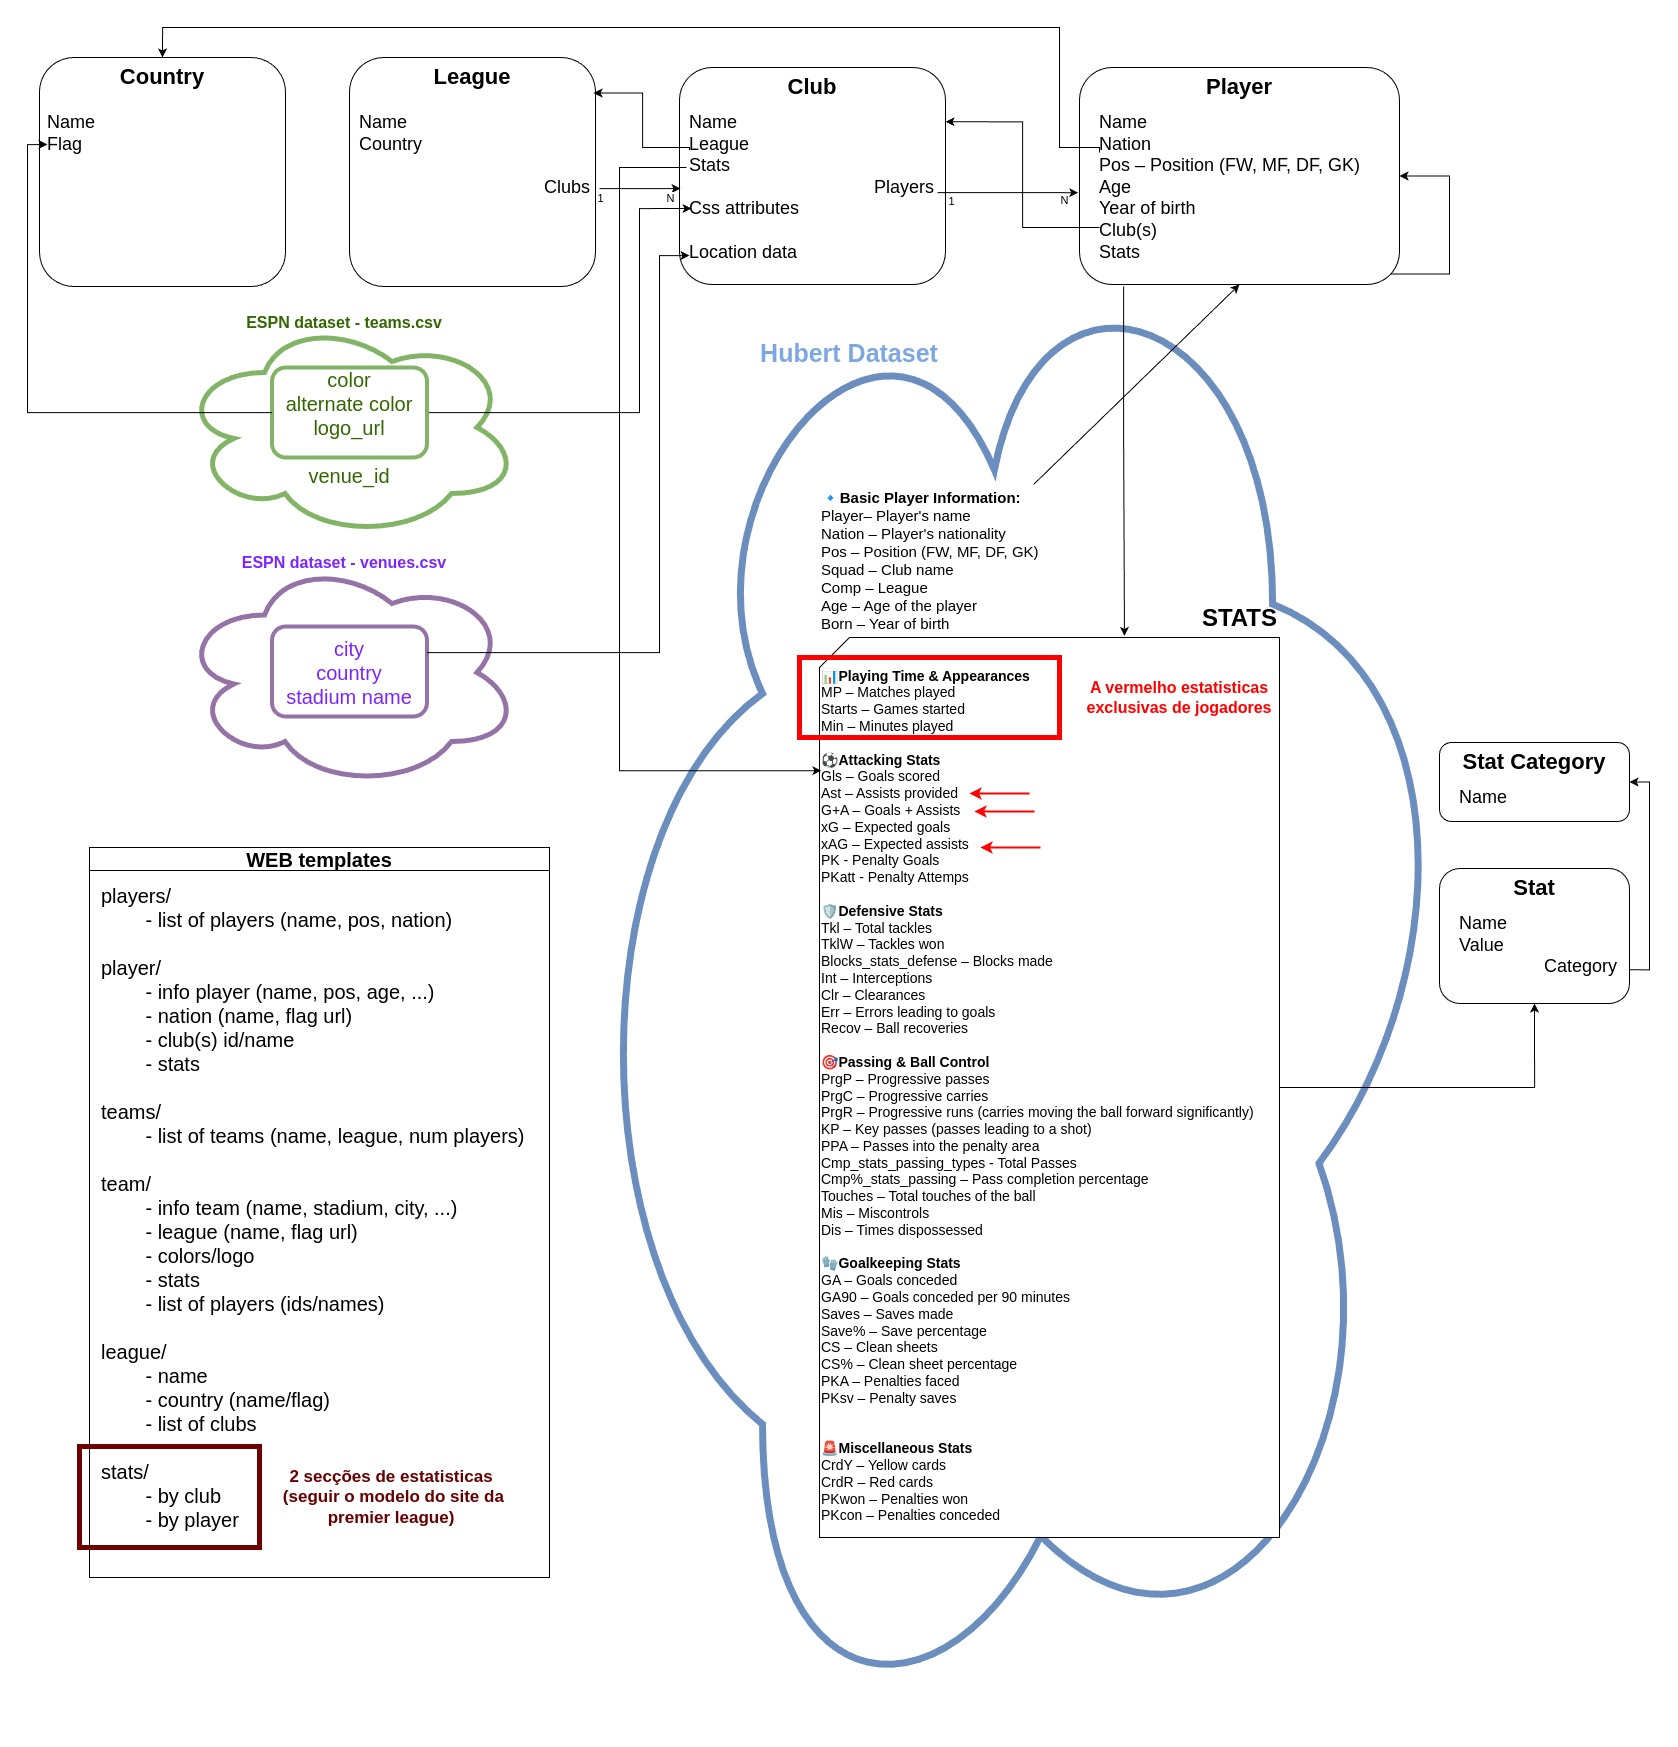
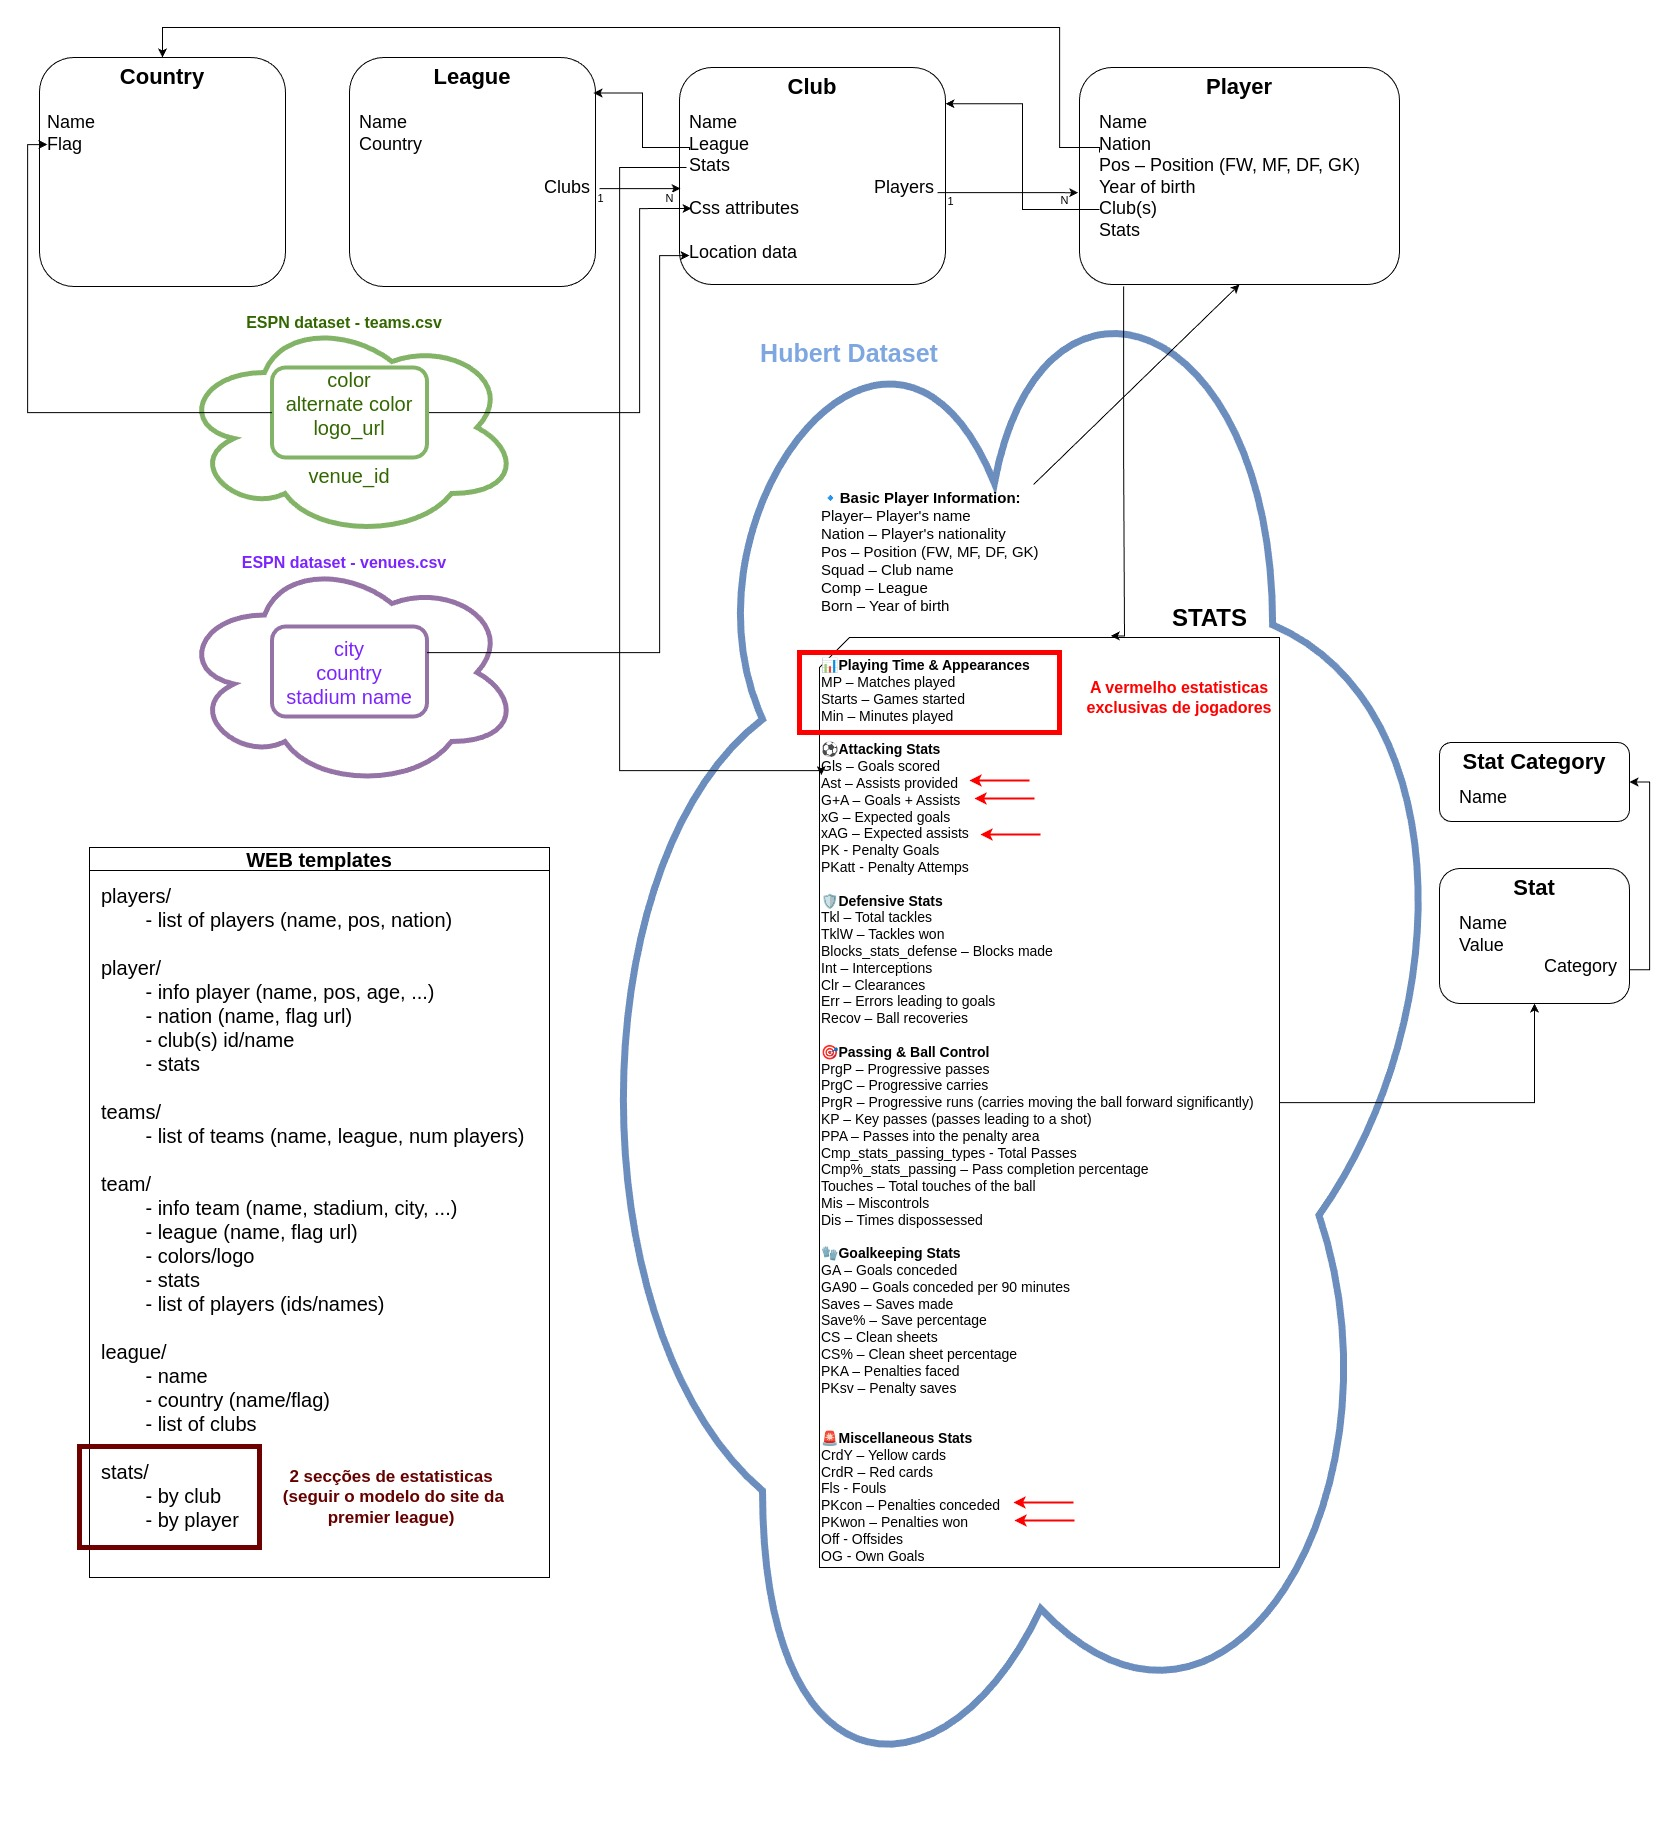
create stats for players

diff --git a/data/data_converter_csv_to_nt.py b/data/data_converter_csv_to_nt.py
@@ -22,8 +22,82 @@ ns_club = Namespace(BASE_URL + 'club/')
 ns_league = Namespace(BASE_URL + 'league/')
 ns_country = Namespace(BASE_URL + 'country/')
 ns_rel = Namespace(BASE_URL + 'rel/')
+ns_stat = Namespace(BASE_URL + 'stat/')
+ns_stat_type = Namespace(BASE_URL + 'stat_type/')
 
 g = Graph()
+
+# Relações Estatisticas Tipo
+g.add((ns_stat_type.playing_time, ns_rel.name, Literal('Playing Time')))
+g.add((ns_stat_type.attacking, ns_rel.name, Literal('Attacking')))
+g.add((ns_stat_type.defending, ns_rel.name, Literal('Defending')))
+g.add((ns_stat_type.passing, ns_rel.name, Literal('Passing & Creativity')))
+g.add((ns_stat_type.goalkeeping, ns_rel.name, Literal('Goalkeeping')))
+g.add((ns_stat_type.miscellaneous, ns_rel.name, Literal('Miscellaneous')))
+
+# Relações Estatisticas
+def convert_stat_name_to_id(stat_name):
+    return stat_name.lower().replace('%', '_pct').replace('+', '_plus_')
+
+PLAYER = "player"
+GK = "goalkeeper"
+TEAM = "team"
+
+stat_mappings = {
+    "MP": {"description": "Matches Played", "type": ns_stat_type.playing_time, "entities": [PLAYER, GK]},
+    "Starts": {"description": "Games Started", "type": ns_stat_type.playing_time, "entities": [PLAYER, GK]},
+    "Min": {"description": "Minutes Played", "type": ns_stat_type.playing_time, "entities": [PLAYER, GK]},
+
+    "Gls": {"description": "Goals", "type": ns_stat_type.attacking, "entities": [PLAYER, GK, TEAM]},
+    "Ast": {"description": "Assists", "type": ns_stat_type.attacking, "entities": [PLAYER, GK]},
+    "G+A": {"description": "Goals + Assists", "type": ns_stat_type.attacking, "entities": [PLAYER, GK]},
+    "xG": {"description": "Expected Goals", "type": ns_stat_type.attacking, "entities": [PLAYER, GK, TEAM]},
+    "xAG": {"description": "Expected Assists", "type": ns_stat_type.attacking, "entities": [PLAYER, GK]},
+    "PK": {"description": "Penalties Scored", "type": ns_stat_type.attacking, "entities": [PLAYER, GK, TEAM]},
+    "PKatt": {"description": "Penalties Attempted", "type": ns_stat_type.attacking, "entities": [PLAYER, GK, TEAM]},
+
+    "Tkl": {"description": "Tackles", "type": ns_stat_type.defending, "entities": [PLAYER, TEAM]},
+    "TklW": {"description": "Tackles Won", "type": ns_stat_type.defending, "entities": [PLAYER, TEAM]},
+    "Blocks_stats_defense": {"description": "Blocks", "type": ns_stat_type.defending, "entities": [PLAYER, TEAM]},
+    "Int": {"description": "Interceptions", "type": ns_stat_type.defending, "entities": [PLAYER, TEAM]},
+    "Clr": {"description": "Clearances", "type": ns_stat_type.defending, "entities": [PLAYER, TEAM]},
+    "Err": {"description": "Errors Leading to Goal", "type": ns_stat_type.defending, "entities": [PLAYER, TEAM]},
+    "Recov": {"description": "Ball Recoveries", "type": ns_stat_type.defending, "entities": [PLAYER, TEAM]},
+
+    "PrgP": {"description": "Progressive Passes", "type": ns_stat_type.passing, "entities": [PLAYER, TEAM]},
+    "PrgC": {"description": "Progressive Carries", "type": ns_stat_type.passing, "entities": [PLAYER, TEAM]},
+    "PrgR": {"description": "Progressive Runs", "type": ns_stat_type.passing, "entities": [PLAYER, TEAM]},
+    "KP": {"description": "Key Passes", "type": ns_stat_type.passing, "entities": [PLAYER, TEAM]},
+    "PPA": {"description": "Passes into Penalty Area", "type": ns_stat_type.passing, "entities": [PLAYER, TEAM]},
+    "Live": {"description": "Total Passes", "type": ns_stat_type.passing, "entities": [PLAYER, TEAM]},
+    "Cmp_stats_passing_types": {"description": "Passes Completed", "type": ns_stat_type.passing, "entities": [PLAYER, TEAM]},
+    "Touches": {"description": "Touches", "type": ns_stat_type.passing, "entities": [PLAYER, TEAM]},
+    "Mis": {"description": "Miscontrols", "type": ns_stat_type.passing, "entities": [PLAYER, TEAM]},
+    "Dis": {"description": "Times Dispossessed", "type": ns_stat_type.passing, "entities": [PLAYER, TEAM]},
+
+    "GA": {"description": "Goals Conceded", "type": ns_stat_type.goalkeeping, "entities": [GK, TEAM]},
+    "GA90": {"description": "Goals Conceded per 90 minutes", "type": ns_stat_type.goalkeeping, "entities": [GK, TEAM]},
+    "Saves": {"description": "Saves", "type": ns_stat_type.goalkeeping, "entities": [GK, TEAM]},
+    "Save%": {"description": "Save %", "type": ns_stat_type.goalkeeping, "entities": [GK, TEAM]},
+    "CS": {"description": "Clean Sheets", "type": ns_stat_type.goalkeeping, "entities": [GK, TEAM]},
+    "CS%": {"description": "Clean Sheet %", "type": ns_stat_type.goalkeeping, "entities": [GK, TEAM]},
+    "PKA": {"description": "Penalties Faced", "type": ns_stat_type.goalkeeping, "entities": [GK, TEAM]},
+    "PKsv": {"description": "Penalties Saved", "type": ns_stat_type.goalkeeping, "entities": [GK, TEAM]},
+
+    "CrdY": {"description": "Yellow Cards", "type": ns_stat_type.miscellaneous, "entities": [PLAYER, GK, TEAM]},
+    "CrdR": {"description": "Red Cards", "type": ns_stat_type.miscellaneous, "entities": [PLAYER, GK, TEAM]},
+    "Fls": {"description": "Fouls Committed", "type": ns_stat_type.miscellaneous, "entities": [PLAYER, GK, TEAM]},
+    "PKcon": {"description": "Penalties Conceded", "type": ns_stat_type.miscellaneous, "entities": [PLAYER, GK]},
+    "PKwon": {"description": "Penalties Won", "type": ns_stat_type.miscellaneous, "entities": [PLAYER, GK]},
+    "OG": {"description": "Own Goals", "type": ns_stat_type.miscellaneous, "entities": [PLAYER, GK, TEAM]},
+    "Off_stats_misc": {"description": "Offsides", "type": ns_stat_type.miscellaneous, "entities": [PLAYER, GK, TEAM]}
+}
+
+for stat in stat_mappings:
+    stat_id = convert_stat_name_to_id(stat)
+    # print(stat)
+    g.add((URIRef(ns_stat + stat_id), ns_rel.name, Literal(stat_mappings[stat]["description"])))
+    g.add((URIRef(ns_stat + stat_id), ns_rel.type, URIRef(stat_mappings[stat]["type"])))
 
 def get_country_info(country_abrv):
     # pesquisar no df_colors_logos pelo country na coluna 'abbreviation'
@@ -159,34 +233,42 @@ for index, row in df_main.iterrows():
 
 
     # players
-    player_name = row['Player']
-    player_exists, player_id = check_player_exists(player_name)
-    player_uri = URIRef(ns_player + player_id)
-
-    if not player_exists:
         # player_id
         # player_name --> 'Player'
         # player_pos --> 'Pos'
         # player_year --> 'Born'
         # player_nation --> 'Nation' (country_abrv)
         # player_club --> 'Squad' (club_name_to_club_id)
-        player_pos = row['Pos'].split(',')
+    player_name = row['Player']
+    player_exists, player_id = check_player_exists(player_name)
+    player_uri = URIRef(ns_player + player_id)
+    player_pos = row['Pos'].split(',')
+    player_club = club_name_to_club_id[row['Squad']]
+
+    if not player_exists:
         try:
             player_year = int(row['Born'])
         except:
             player_year = 0
         player_nation = country_abrv
-        player_club = club_name_to_club_id[row['Squad']]
 
         g.add((player_uri, ns_rel.name, Literal(player_name)))
         for pos in player_pos:
             g.add((player_uri, ns_rel.position, Literal(pos)))
         g.add((player_uri, ns_rel.born, Literal(player_year)))
         g.add((player_uri, ns_rel.nation, URIRef(ns_country + player_nation)))
-        g.add((player_uri, ns_rel.club, URIRef(ns_club + player_club)))
+
+        # stats
+        main_pos = player_pos[0]
+        for stat in stat_mappings:
+            if (main_pos == "GK" and GK in stat_mappings[stat]["entities"] or main_pos != "GK" and PLAYER in stat_mappings[stat]["entities"]):
+                stat_id = convert_stat_name_to_id(stat)
+                stat_value = row[stat]
+                g.add((player_uri, URIRef(ns_stat + stat_id), Literal(stat_value)))
     else:
-        player_club_2 = club_name_to_club_id[row['Squad']]
-        g.add((player_uri, ns_rel.club, URIRef(ns_club + player_club_2)))
+        ...
+        # stats
+    g.add((player_uri, ns_rel.club, URIRef(ns_club + player_club)))
 
 g.serialize(destination="import/football_rdf_data.nt", format="nt", encoding="utf-8")
 g.serialize(destination="import/football_rdf_data.n3", format="n3", encoding="utf-8")
